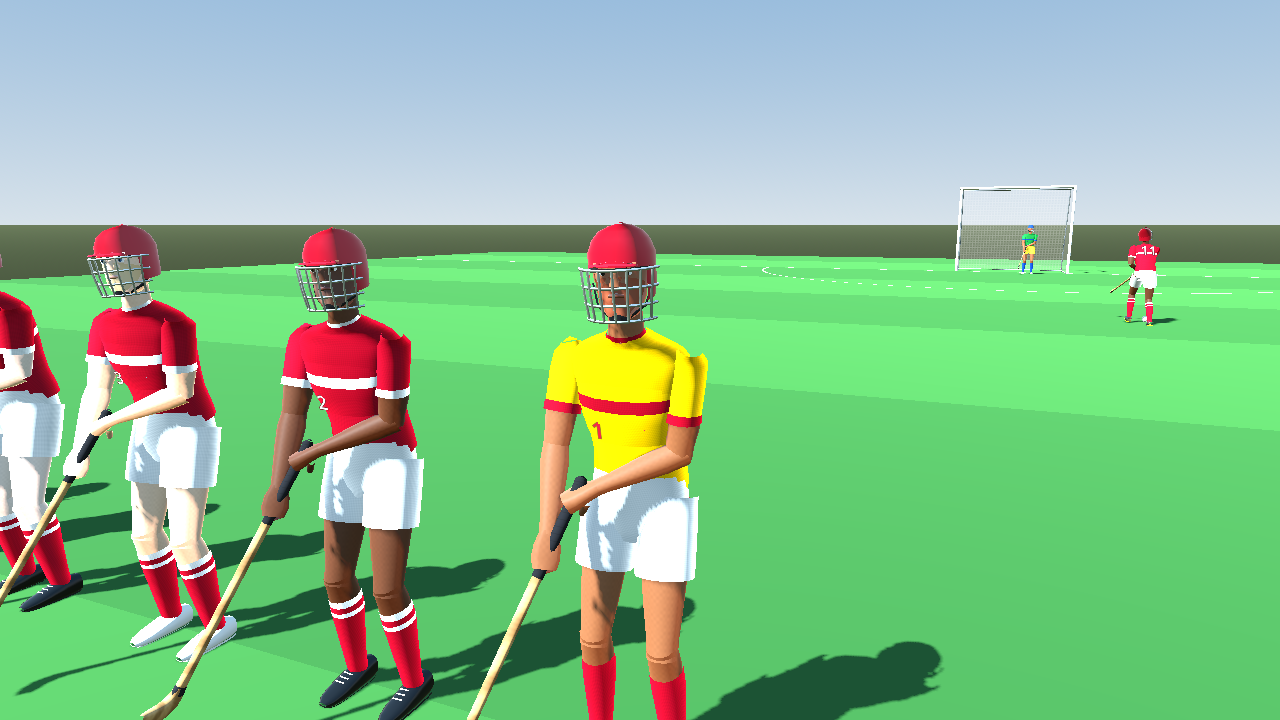
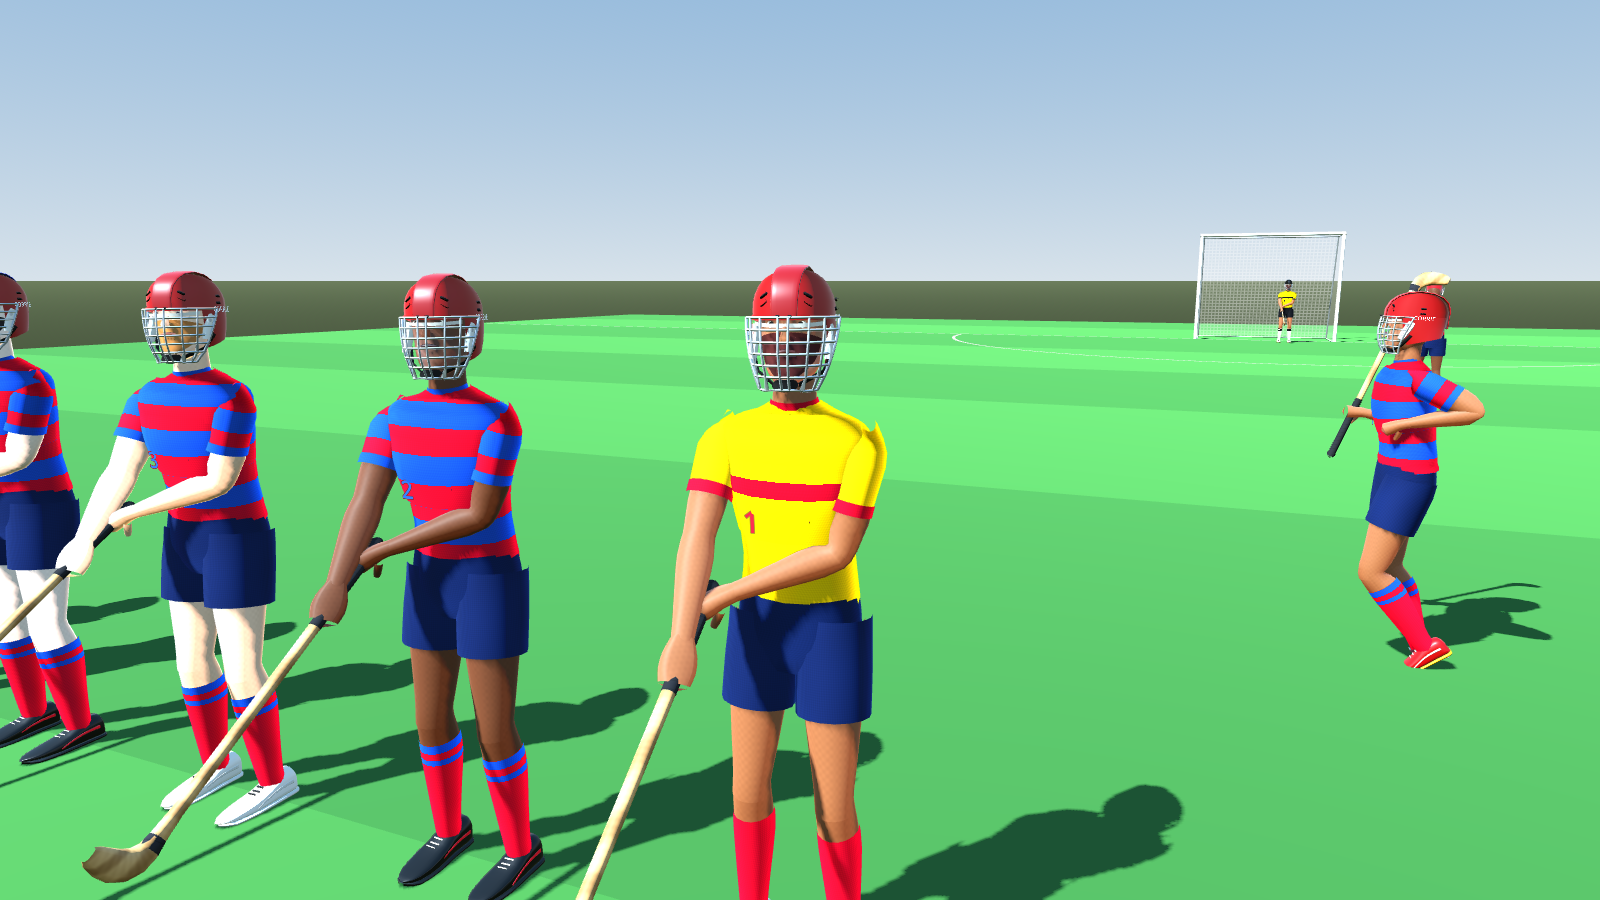
Docs and screenshots for the new boots and helmet
Claude-Session: https://claude.ai/code/session_01Wx267TfZZneAQXZt9C29L3

diff --git a/docs/models.md b/docs/models.md
@@ -72,10 +72,19 @@ animation or physics.
   number on the front, and the number and surname on the back (surnames show
   once squads have real names). Socks have trim hoops. A team can set
   `colors.pattern` to `"hoops"` or `"stripes"`.
-- **Boots** have a shaped upper, a coloured sole, studs and laces, with a few
-  colourways across the squad.
-- **Helmet**: rounded glossy shell with a peak, vents, padding at the rim, a
-  curved steel face guard and a chin strap.
+- **Boots** are low-cut football boots: a flat sole plate with a little toe
+  spring, a heel collar round the ankle, a lace panel over the instep, a
+  wide forefoot turned in at the big toe, a side flash, and conical studs.
+  Boot, sole and flash colours vary across the squad.
+- **Helmet** follows the hurling-style helmets players wear: a rounded shell
+  that comes down past the ears, a raised crown panel from brow to nape,
+  slotted vents on the forehead, top and sides, white foam lining under the
+  brow and down the cheeks, rivets at the temples, a made-up "CORRIE" brand
+  on each side, and a steel cage (seven bars across, six up) standing off
+  the face and tucking in under the chin, with a chin cup and strap. Most
+  players wear the team's helmet colour; about one in six wears a white
+  shell and about one in seven a two-tone one with the panel in the trim
+  colour (keepers always wear the team colour).
 - **Caman**: ash grain, an oval shaft that flares into a curved bas, grip
   tape spiralled round the handle, a knob at the end and tape on the bas.
 - **Ball**: leather with a stitched seam drawn by a shader, and a raised ridge
@@ -154,8 +163,9 @@ launch on the model's `strike` signal.
 
 ## Performance
 
-Each player is about 8,000 triangles in 46 meshes: meshes under the same bone
-that share a material are merged, so 24 players come to roughly 1,100 draw
-calls. `low_detail = true` drops a player to 36 meshes by leaving out the face
-details, face guard bars, studs, laces, names and numbers; use it for
-distant players.
+Each player is about 14,600 triangles, baked into one skinned mesh of about
+nine surfaces (one per material; every plain-coloured part shares a single
+surface) plus a shadow-only copy. The helmet cage, boots and vents add
+triangles but no draw calls. `low_detail = true` halves the triangles (about
+7,700) by leaving out the face details, most cage bars, vents, studs, laces,
+names and numbers; use it for distant players.
